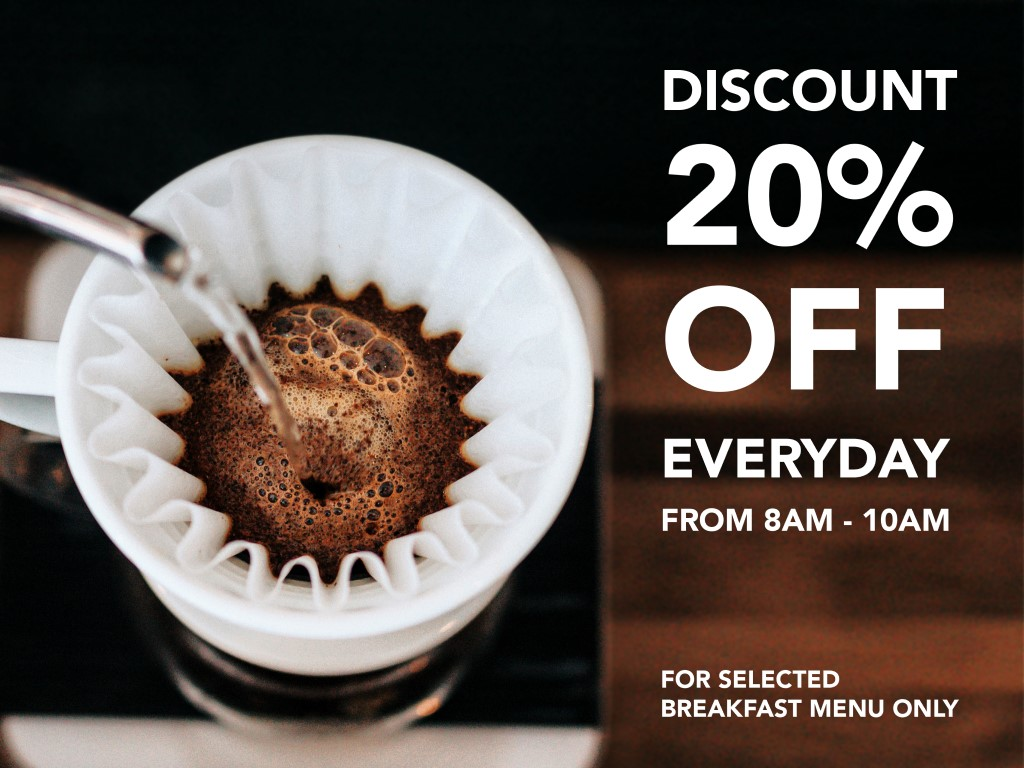
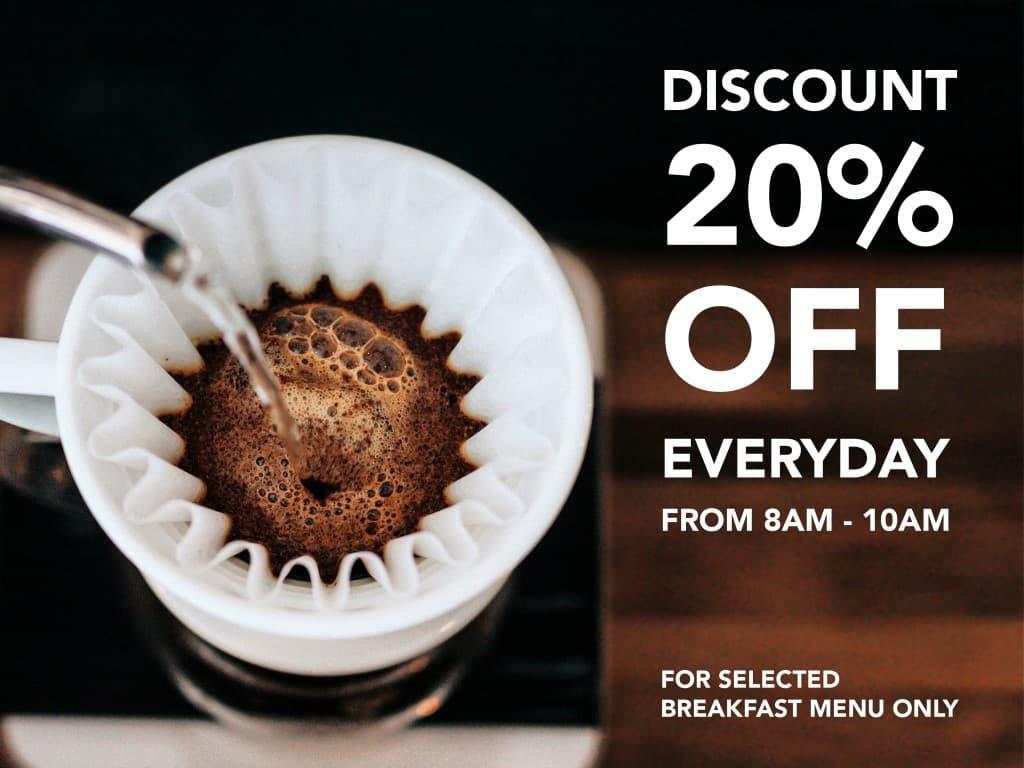
compress image sizes

Changed region(s): [[0.6562, 0.9062, 0.6875, 0.9375]]

diff --git a/menu.html b/menu.html
@@ -324,12 +324,12 @@
 
         <div class="food-banner">
           <div>
-            <img src="images/banner/fried_banana.png" alt="Pisang Goreng Madu" />
+            <img src="images/banner/fried_banana.jpg" alt="Pisang Goreng Madu" />
             <div class="text-image-bottom"><span>Pisang Goreng Madu</span></div>
           </div>
 
           <div>
-            <img src="images/banner/onion_ring.png" alt="Onion Ring" />
+            <img src="images/banner/onion_ring.jpg" alt="Onion Ring" />
             <div class="text-image-top"><span>Onion Rings</span></div>
           </div>
         </div>
@@ -929,7 +929,7 @@
 
         <div class="drink-box drinks">
           <div class="drink-banner">
-            <img src="images/banner/icedtea.png" alt="Tea" style="width: 100%" />
+            <img src="images/banner/icedtea.jpg" alt="Tea" style="width: 100%" />
           </div>
 
           <div class="drink-category">
@@ -991,7 +991,7 @@
 
         <div class="drink-box drinks">
           <div class="drink-banner">
-            <img src="images/banner/milkshake.png" alt="MilkShake" style="width: 100%" />
+            <img src="images/banner/milkshake.jpg" alt="MilkShake" style="width: 100%" />
           </div>
 
           <div class="drink-category">
